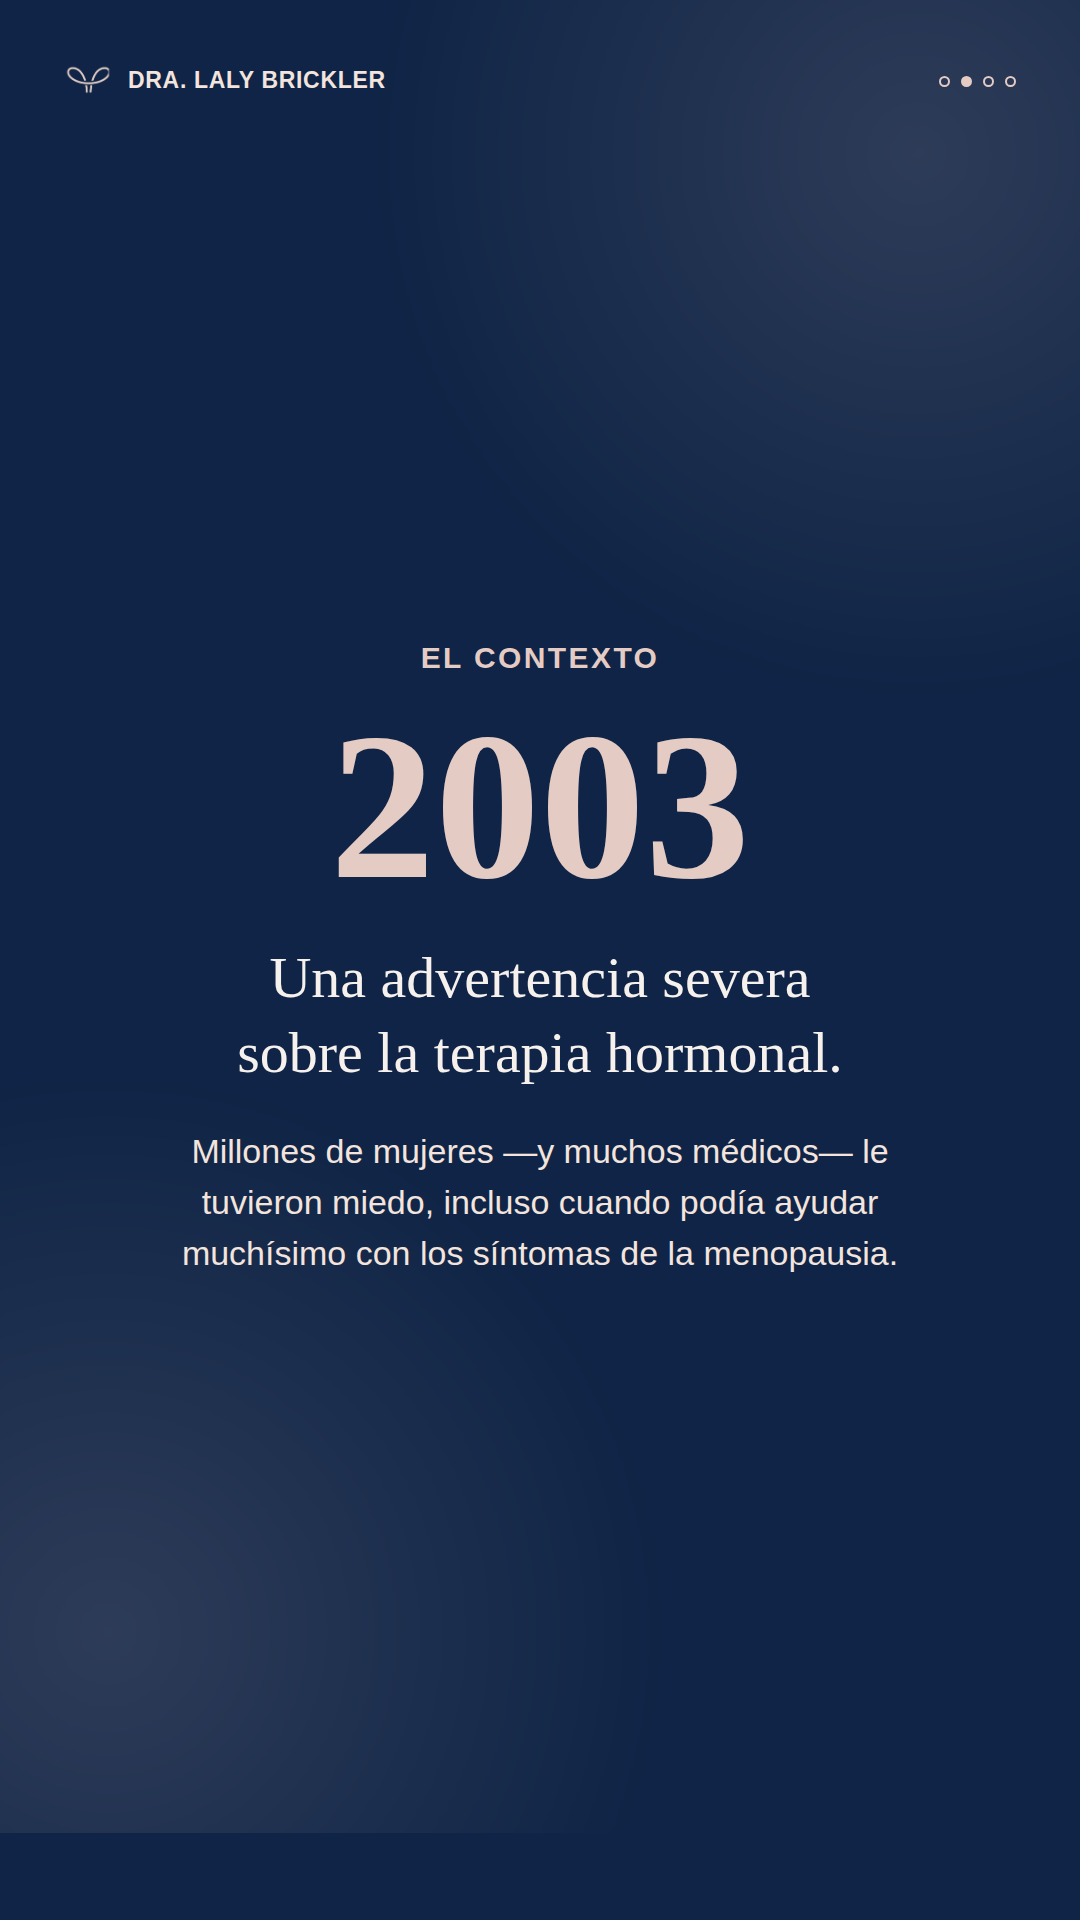
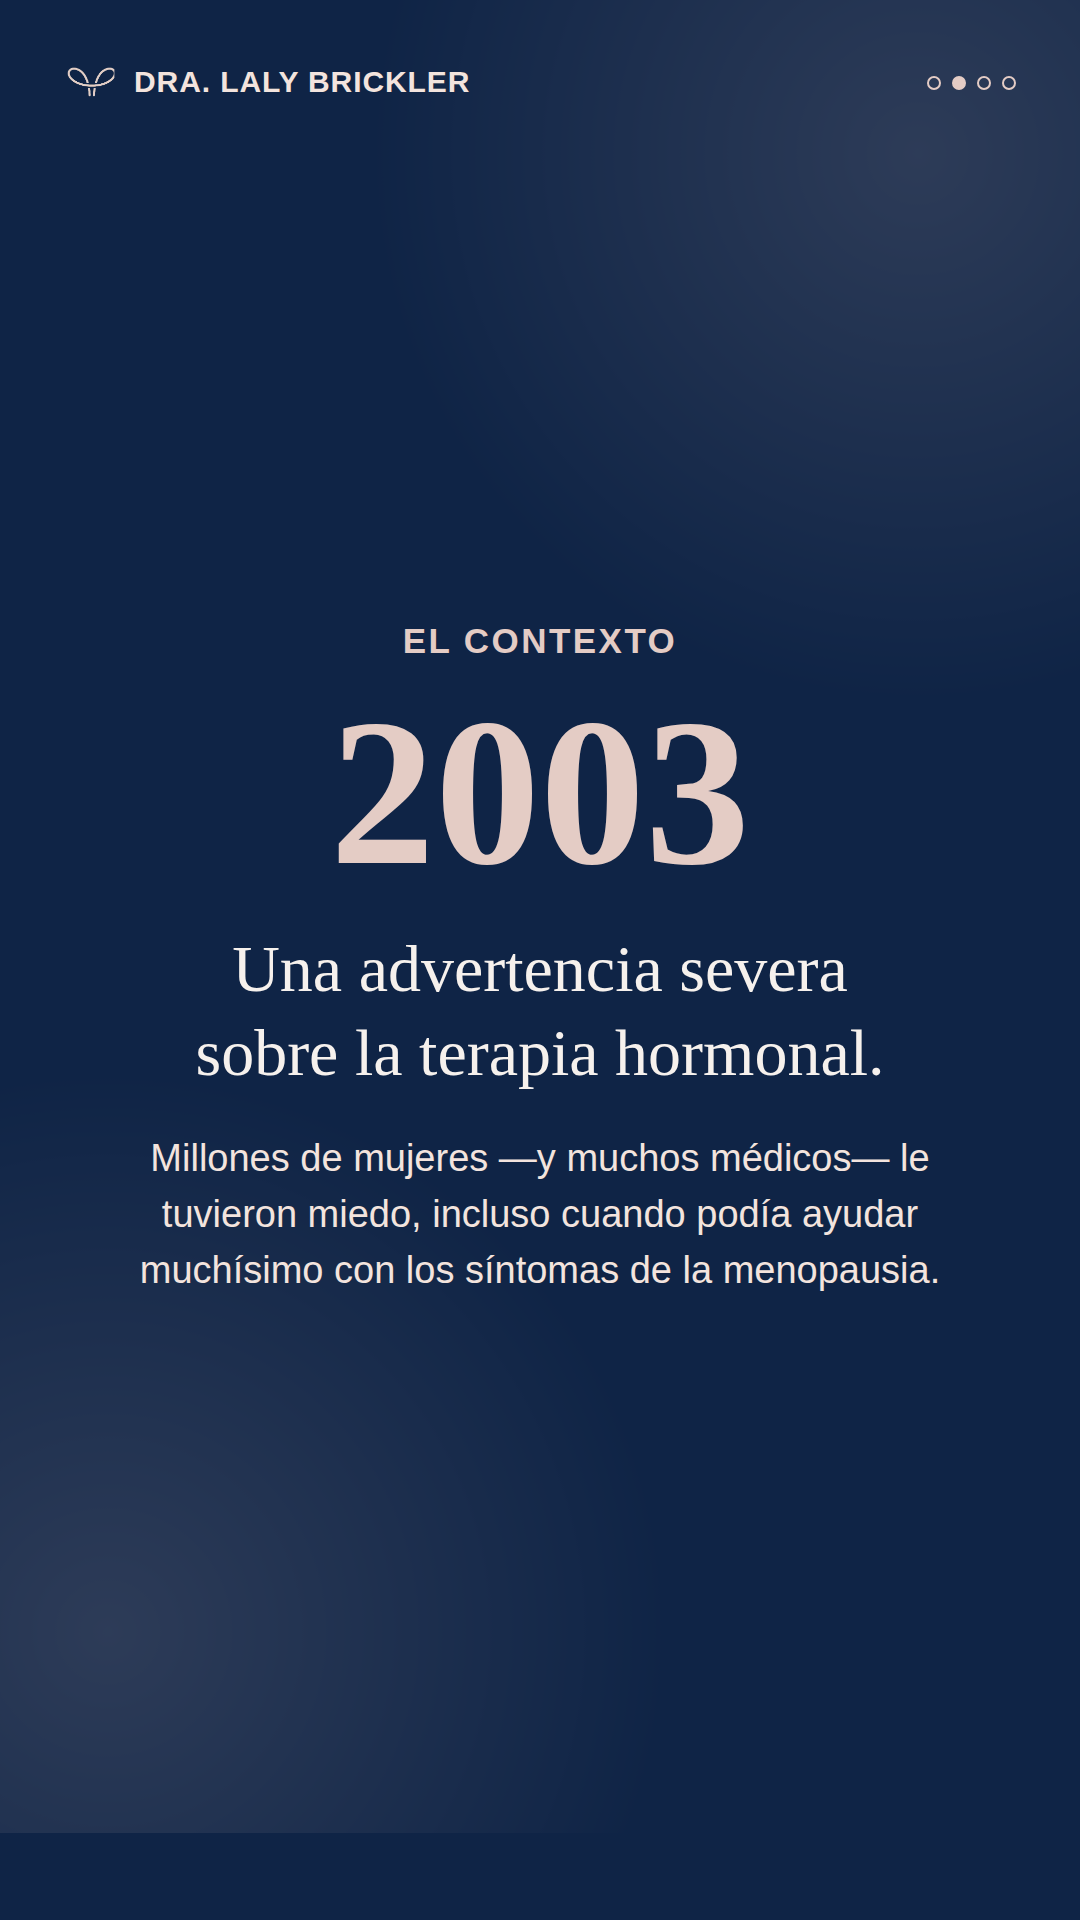
Enlarge every text element on the menopause carousel
Bump brand wordmark, eyebrows, headlines, body text, the
endometrial caveat footnote, CTA pill and logo caption across
all 4 slides, plus scale up the logo icon and progress dots to
match. Verified every slide still fits within its frame.

Claude-Session: https://claude.ai/code/session_01LtTLwZrPZbyahK5aD18j7d

diff --git a/assets/export-menopausia/slide-4-cta.html b/assets/export-menopausia/slide-4-cta.html
@@ -13,22 +13,22 @@ html,body{width:1080px;height:1920px;overflow:hidden;background:#0F2446;font-fam
   radial-gradient(circle at 78% 92%, #E4CCC5 0, transparent 28%);
   pointer-events:none}
 .brand{position:absolute;top:64px;left:64px;display:flex;align-items:center;gap:16px;z-index:3}
-.brand img{width:48px;height:auto;display:block}
-.brand span{font-size:23px;color:#F3E4DE;letter-spacing:.03em;font-weight:600}
+.brand img{width:54px;height:auto;display:block}
+.brand span{font-size:30px;color:#F3E4DE;letter-spacing:.03em;font-weight:600}
 .dots{position:absolute;top:76px;right:64px;display:flex;gap:11px;z-index:3}
-.dot{width:11px;height:11px;border-radius:50%;border:2px solid #E4CCC5}
+.dot{width:14px;height:14px;border-radius:50%;border:2px solid #E4CCC5}
 .dot.on{background:#E4CCC5}
 
 .body{position:absolute;inset:0;display:flex;flex-direction:column;justify-content:center;padding:0 86px}
-.eyebrow{color:#E4CCC5;font-size:30px;letter-spacing:.09em;text-transform:uppercase;font-weight:700;margin-bottom:32px}
-.cta-head{font-family:'Fraunces',Georgia,serif;color:#F6F1ED;font-size:72px;line-height:1.16;font-weight:500;max-width:900px;text-wrap:balance;margin-bottom:50px}
+.eyebrow{color:#E4CCC5;font-size:35px;letter-spacing:.08em;text-transform:uppercase;font-weight:700;margin-bottom:32px}
+.cta-head{font-family:'Fraunces',Georgia,serif;color:#F6F1ED;font-size:80px;line-height:1.14;font-weight:500;max-width:920px;text-wrap:balance;margin-bottom:46px}
 .cta-head em{font-style:normal;color:#E4CCC5}
-.cta-pill{display:inline-flex;align-items:center;gap:16px;background:#E4CCC5;color:#081833;font-weight:700;font-size:41px;padding:28px 44px;border-radius:999px;width:fit-content}
+.cta-pill{display:inline-flex;align-items:center;gap:16px;background:#E4CCC5;color:#081833;font-weight:700;font-size:46px;padding:30px 46px;border-radius:999px;width:fit-content}
 .cta-logo{display:flex;align-items:center;gap:22px;margin-top:56px}
 .cta-logo img{width:72px;height:auto;display:block}
 .cta-logo .ln{display:flex;flex-direction:column;line-height:1.3}
-.cta-logo .ln b{font-family:'Fraunces',Georgia,serif;color:#F6F1ED;font-size:37px;font-weight:600}
-.cta-logo .ln small{color:#F3E4DE;font-size:24px;letter-spacing:.03em}
+.cta-logo .ln b{font-family:'Fraunces',Georgia,serif;color:#F6F1ED;font-size:41px;font-weight:600}
+.cta-logo .ln small{color:#F3E4DE;font-size:28px;letter-spacing:.03em}
 </style></head>
 <body>
 <div class="frame">

diff --git a/assets/export-menopausia/slide-3-noticia.html b/assets/export-menopausia/slide-3-noticia.html
@@ -12,20 +12,20 @@ html,body{width:1080px;height:1920px;overflow:hidden;background:#0F2446;font-fam
   radial-gradient(circle at 90% 85%, #E4CCC5 0, transparent 28%);
   pointer-events:none}
 .brand{position:absolute;top:64px;left:64px;display:flex;align-items:center;gap:16px;z-index:3}
-.brand img{width:48px;height:auto;display:block}
-.brand span{font-size:23px;color:#F3E4DE;letter-spacing:.03em;font-weight:600}
+.brand img{width:54px;height:auto;display:block}
+.brand span{font-size:30px;color:#F3E4DE;letter-spacing:.03em;font-weight:600}
 .dots{position:absolute;top:76px;right:64px;display:flex;gap:11px;z-index:3}
-.dot{width:11px;height:11px;border-radius:50%;border:2px solid #E4CCC5}
+.dot{width:14px;height:14px;border-radius:50%;border:2px solid #E4CCC5}
 .dot.on{background:#E4CCC5}
 
 .body{position:absolute;inset:0;display:flex;flex-direction:column;justify-content:center;align-items:center;padding:0 90px;text-align:center}
-.eyebrow{color:#E4CCC5;font-size:30px;letter-spacing:.08em;text-transform:uppercase;font-weight:700;margin-bottom:26px}
-.year{font-family:'Fraunces',Georgia,serif;font-weight:600;color:#F6F1ED;font-size:84px;line-height:1;margin-bottom:34px}
+.eyebrow{color:#E4CCC5;font-size:35px;letter-spacing:.07em;text-transform:uppercase;font-weight:700;margin-bottom:26px}
+.year{font-family:'Fraunces',Georgia,serif;font-weight:600;color:#F6F1ED;font-size:90px;line-height:1;margin-bottom:32px}
 .year em{font-style:normal;color:#E4CCC5}
-.headline{font-family:'Fraunces',Georgia,serif;font-weight:600;color:#F6F1ED;font-size:64px;line-height:1.2;max-width:840px;text-wrap:balance;margin-bottom:36px}
-.sub{font-size:33px;color:#F3E4DE;line-height:1.5;max-width:820px}
+.headline{font-family:'Fraunces',Georgia,serif;font-weight:600;color:#F6F1ED;font-size:70px;line-height:1.18;max-width:860px;text-wrap:balance;margin-bottom:32px}
+.sub{font-size:36px;color:#F3E4DE;line-height:1.46;max-width:840px}
 .sub b{color:#E4CCC5;font-weight:600}
-.caveat{margin-top:32px;padding-top:28px;border-top:1px solid rgba(228,204,197,.3);font-size:26px;color:#E4CCC5;line-height:1.5;max-width:780px}
+.caveat{margin-top:28px;padding-top:24px;border-top:1px solid rgba(228,204,197,.3);font-size:29px;color:#E4CCC5;line-height:1.46;max-width:800px}
 </style></head>
 <body>
 <div class="frame">

diff --git a/assets/export-menopausia/slide-1-hook.html b/assets/export-menopausia/slide-1-hook.html
@@ -10,17 +10,17 @@ html,body{width:1080px;height:1920px;overflow:hidden;background:#0F2446;font-fam
 .frame-photo-top{position:relative;flex:0 0 900px;background-image:url('foto1-crop.webp');background-size:cover;background-position:center 30%;z-index:0}
 .frame-photo-top::after{content:"";position:absolute;inset:0;background:linear-gradient(180deg, rgba(8,24,51,.5) 0%, rgba(8,24,51,0) 14%, rgba(15,36,70,0) 55%, #0F2446 100%)}
 .brand{position:absolute;top:64px;left:64px;display:flex;align-items:center;gap:16px;z-index:3}
-.brand img{width:48px;height:auto;display:block}
-.brand span{font-size:25px;color:#F3E4DE;letter-spacing:.03em;font-weight:600}
+.brand img{width:54px;height:auto;display:block}
+.brand span{font-size:30px;color:#F3E4DE;letter-spacing:.03em;font-weight:600}
 .dots{position:absolute;top:78px;right:64px;display:flex;gap:11px;z-index:3}
-.dot{width:12px;height:12px;border-radius:50%;border:2px solid #E4CCC5}
+.dot{width:14px;height:14px;border-radius:50%;border:2px solid #E4CCC5}
 .dot.on{background:#E4CCC5}
 
 .body{position:relative;flex:1;z-index:2;display:flex;flex-direction:column;justify-content:center;align-items:center;padding:0 80px 30px;text-align:center}
-.eyebrow{color:#E4CCC5;font-size:29px;letter-spacing:.08em;text-transform:uppercase;font-weight:700;margin-bottom:34px}
-.headline{font-family:'Fraunces',Georgia,serif;font-weight:600;color:#F6F1ED;font-size:76px;line-height:1.14;text-wrap:balance}
+.eyebrow{color:#E4CCC5;font-size:34px;letter-spacing:.07em;text-transform:uppercase;font-weight:700;margin-bottom:34px}
+.headline{font-family:'Fraunces',Georgia,serif;font-weight:600;color:#F6F1ED;font-size:82px;line-height:1.12;text-wrap:balance}
 .headline em{font-style:normal;color:#E4CCC5}
-.sub{margin-top:40px;font-size:34px;color:#F3E4DE;line-height:1.45;max-width:800px}
+.sub{margin-top:38px;font-size:38px;color:#F3E4DE;line-height:1.42;max-width:820px}
 </style></head>
 <body>
 <div class="frame">

diff --git a/assets/export-menopausia/slide-2-contexto.html b/assets/export-menopausia/slide-2-contexto.html
@@ -12,17 +12,17 @@ html,body{width:1080px;height:1920px;overflow:hidden;background:#0F2446;font-fam
   radial-gradient(circle at 10% 85%, #E4CCC5 0, transparent 30%);
   pointer-events:none}
 .brand{position:absolute;top:64px;left:64px;display:flex;align-items:center;gap:16px;z-index:3}
-.brand img{width:48px;height:auto;display:block}
-.brand span{font-size:23px;color:#F3E4DE;letter-spacing:.03em;font-weight:600}
+.brand img{width:54px;height:auto;display:block}
+.brand span{font-size:30px;color:#F3E4DE;letter-spacing:.03em;font-weight:600}
 .dots{position:absolute;top:76px;right:64px;display:flex;gap:11px;z-index:3}
-.dot{width:11px;height:11px;border-radius:50%;border:2px solid #E4CCC5}
+.dot{width:14px;height:14px;border-radius:50%;border:2px solid #E4CCC5}
 .dot.on{background:#E4CCC5}
 
 .body{position:absolute;inset:0;display:flex;flex-direction:column;justify-content:center;align-items:center;padding:0 90px;text-align:center}
-.eyebrow{color:#E4CCC5;font-size:30px;letter-spacing:.08em;text-transform:uppercase;font-weight:700;margin-bottom:26px}
+.eyebrow{color:#E4CCC5;font-size:35px;letter-spacing:.07em;text-transform:uppercase;font-weight:700;margin-bottom:26px}
 .year{font-family:'Fraunces',Georgia,serif;font-weight:600;color:#E4CCC5;font-size:210px;line-height:1;margin-bottom:30px}
-.headline{font-family:'Fraunces',Georgia,serif;font-weight:500;color:#F6F1ED;font-size:58px;line-height:1.28;max-width:820px;text-wrap:balance;margin-bottom:36px}
-.sub{font-size:34px;color:#F3E4DE;line-height:1.5;max-width:800px}
+.headline{font-family:'Fraunces',Georgia,serif;font-weight:500;color:#F6F1ED;font-size:66px;line-height:1.26;max-width:840px;text-wrap:balance;margin-bottom:36px}
+.sub{font-size:38px;color:#F3E4DE;line-height:1.48;max-width:820px}
 </style></head>
 <body>
 <div class="frame">
